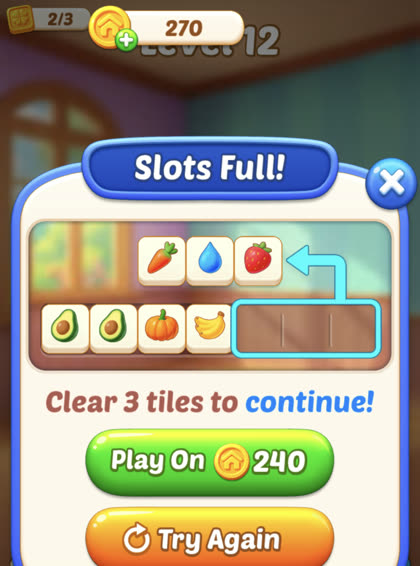
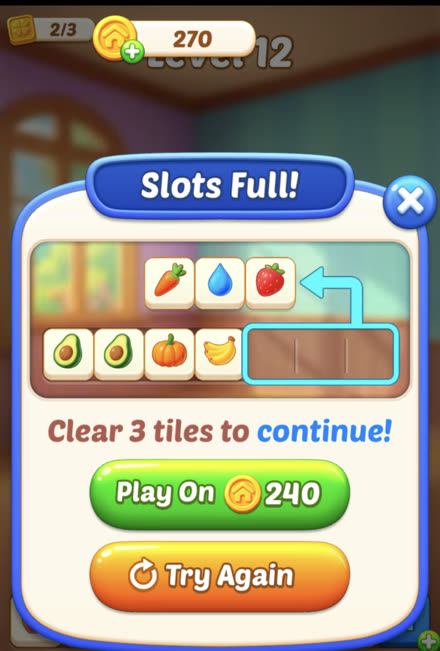
TT-AD-02 — 슬롯 풀 캡처 전체 노출 + To-Be 버튼 목업 추가
Claude-Session: https://claude.ai/code/session_01N87SZa8EKgV6kmJCETW6RE

diff --git a/tiktok_rv_expansion_spec.html b/tiktok_rv_expansion_spec.html
@@ -93,6 +93,15 @@ tbody td { padding:9px 14px;border-bottom:1px solid var(--border);color:var(--te
 tbody tr:hover td { background:var(--surface2); }
 tbody td:first-child { color:var(--text);font-weight:600; }
 .mono { font-family:monospace;font-variant-numeric:tabular-nums; }
+/* 슬롯 풀 팝업 버튼 목업 */
+.mock { background:#f3ead9;border:5px solid #4a90e2;border-radius:20px;padding:18px 16px 14px;max-width:330px; }
+.mock-title { text-align:center;font-weight:800;color:#7a4b2a;margin-bottom:14px;font-size:.9rem; }
+.mock-btn { display:flex;align-items:center;justify-content:center;gap:7px;border-radius:999px;padding:11px 16px;font-weight:800;color:#fff;font-size:.95rem;margin-bottom:10px;text-shadow:0 1px 2px rgba(0,0,0,.3); }
+.mock-green { background:linear-gradient(#7ed321,#5aa813);box-shadow:0 3px 0 #47850f; }
+.mock-orange { background:linear-gradient(#ffb347,#f5871f);box-shadow:0 3px 0 #c96a10; }
+.mock-text { text-align:center;color:#fff;font-weight:700;font-size:.85rem;padding:6px 0 2px;text-shadow:0 1px 2px rgba(0,0,0,.45); }
+.mock-wrap { background:#4a90e2;border-radius:22px;padding:0 0 10px; }
+.mock-new { display:inline-block;background:#fff;color:#f5871f;border-radius:5px;font-size:.62rem;padding:1px 5px;margin-left:5px;vertical-align:middle;font-weight:800;text-shadow:none; }
 /* 한글 단어 중간에서 줄바꿈 금지 */
 table td, table th { word-break:keep-all; }
 td.c,th.c { text-align:center; }
@@ -211,12 +220,23 @@ tbody tr.pick:hover td,tbody tr.warn:hover td { box-shadow:inset 0 0 0 999px rgb
   <h3>2순위 &mdash; 코인이 있으면 광고 버튼이 사라짐</h3>
   <div class="shots">
     <figure class="shot bad">
-      <img src="tiktok_rv_shots/slots_full.jpg" alt="Slots Full 팝업">
-      <figcaption><b>슬롯 풀 &mdash; 광고 버튼 없음</b>코인 270 &gt; 가격 240이라 <code>Play On</code>만 뜸. <strong>광고로 이어갈 수 있다는 걸 유저가 모름</strong></figcaption>
+      <img src="tiktok_rv_shots/slots_full.jpg" alt="Slots Full 팝업 현행">
+      <figcaption><b>As-Is &mdash; 광고 버튼이 없음</b>코인 270 &gt; 가격 240이라 <code>Play On</code>만 뜸. <strong>광고로 이어갈 수 있다는 걸 유저가 모름</strong></figcaption>
+    </figure>
+    <figure class="shot good">
+      <div style="padding:14px 10px;display:flex;justify-content:center">
+        <div class="mock-wrap"><div class="mock">
+          <div class="mock-title">Clear 3 tiles to continue!</div>
+          <div class="mock-btn mock-green">Play On &#127968; 240</div>
+          <div class="mock-btn mock-orange">&#127916; 광고 보고 이어하기<span class="mock-new">신규</span></div>
+        </div>
+        <div class="mock-text">&#8635; Try Again</div></div>
+      </div>
+      <figcaption><b>To-Be &mdash; 광고 버튼을 상시 노출</b>코인 버튼은 그대로, <strong>그 아래에 광고 버튼 신설</strong>. <code>Try Again</code>은 패널을 빼고 <strong>팝업 하단 흰색 글자</strong>로 내림</figcaption>
     </figure>
     <figure class="shot good">
       <img src="tiktok_rv_shots/undo_popup.jpg" alt="Undo 팝업">
-      <figcaption><b>같은 게임의 다른 팝업</b>Undo·Extra Slot은 코인과 <code>Free x1</code>을 <strong>나란히</strong> 보여줌. 팝업끼리 패턴이 어긋나 있음</figcaption>
+      <figcaption><b>버튼 스타일 참고</b>Undo &#183; Extra Slot은 코인과 <code>Free x1</code>을 <strong>나란히</strong> 보여줌. 오렌지 + 비디오 아이콘을 그대로 씀</figcaption>
     </figure>
   </div>
   <pre class="codeblock">// PopupSlotFull.ts:124
